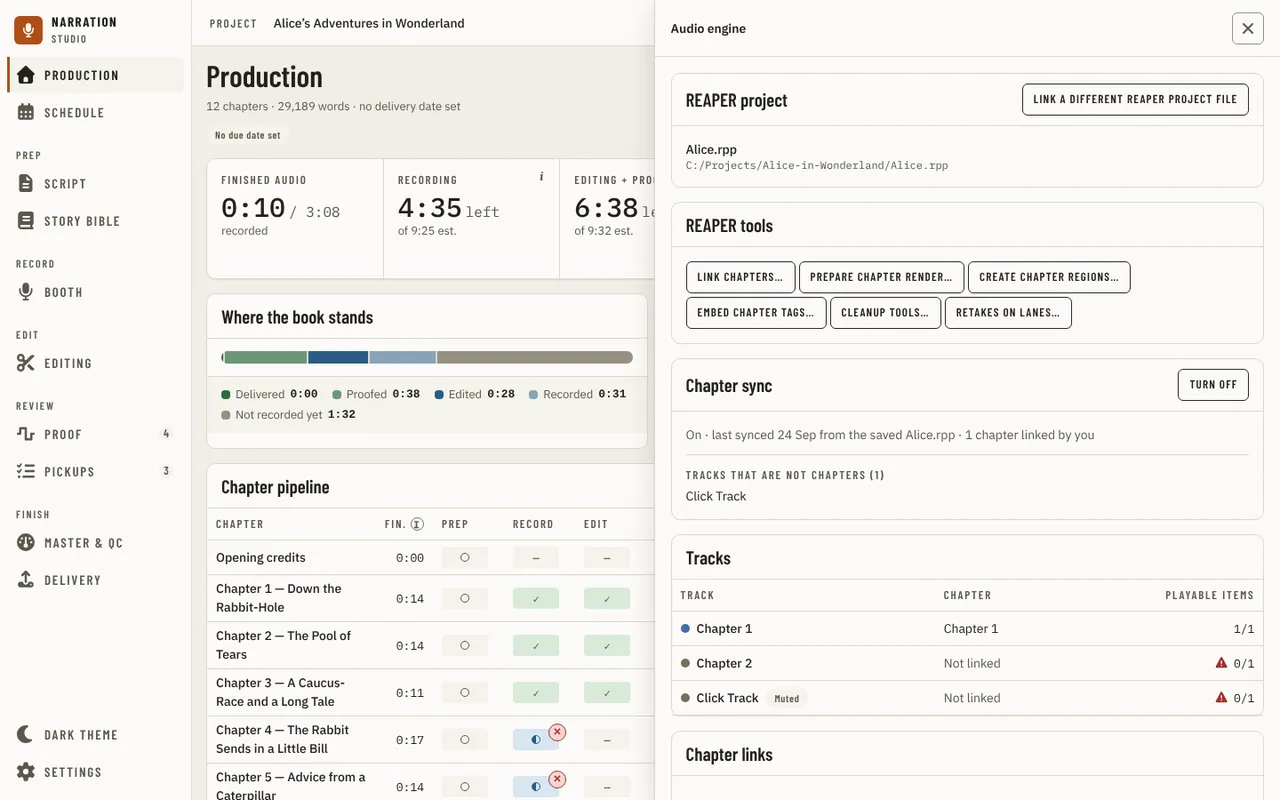
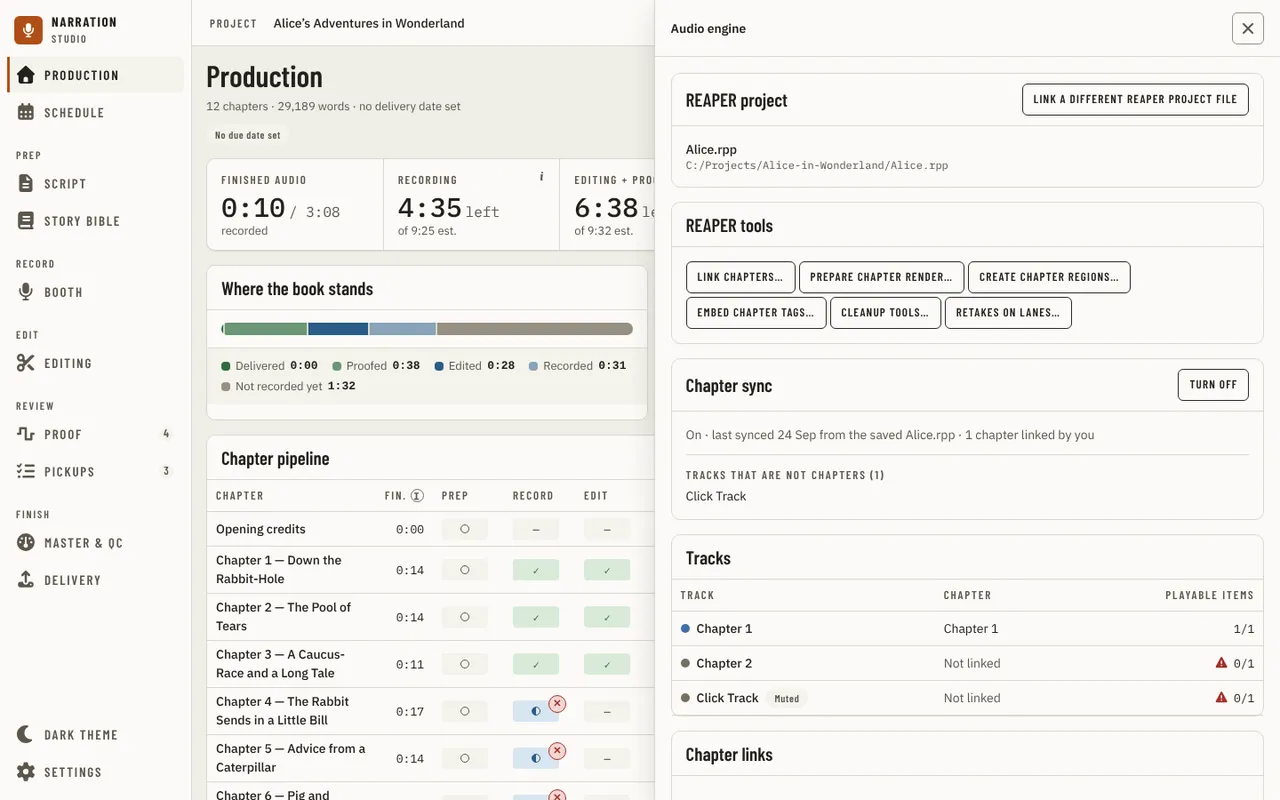
feat(ui): move the chapter sync activity log from the engine panel to settings
Sync activity is now an advanced Recording & DAW row (REAPER only), and
Tracks that are not chapters uses the full width of the Chapter sync panel.

Claude-Session: https://claude.ai/code/session_01VXV8RYs4TmyCTTo6amBq62

diff --git a/apps/ui/src/components/engine/ChapterSyncPanel.tsx b/apps/ui/src/components/engine/ChapterSyncPanel.tsx
@@ -9,19 +9,12 @@ import { Panel } from '../primitives/Panel';
 import { InsetCard } from '../primitives/InsetCard';
 import { SectionLabel } from '../primitives/SectionLabel';
 import { Select } from '../primitives/Select';
-import {
-  chapterSyncActivityRows,
-  chapterSyncBackgroundWaitText,
-  chapterSyncPanelNotChaptersText,
-  chapterSyncPanelReasonText,
-  chapterSyncSummaryText,
-  chapterSyncTimeLabel,
-} from './chapterSyncText';
+import { chapterSyncBackgroundWaitText, chapterSyncPanelNotChaptersText, chapterSyncPanelReasonText, chapterSyncSummaryText } from './chapterSyncText';
 
 /**
  * Chapter sync's own section of the engine panel the on/off state and last-sync summary, the Needs you list with an inline Link
- * (chapterTrackSet, the same binding as Chapter links below), the tracks sync could not place, and the Sync activity with Undo
- * on a link sync made. Nothing here shows before the consent dialog has been answered (`ask`) - that is the narrator's first
+ * (chapterTrackSet, the same binding as Chapter links below), and the tracks sync could not place. The Sync activity log is in
+ * Settings (Recording & DAW › Advanced). Nothing here shows before the consent dialog has been answered (`ask`) - that is the narrator's first
  * decision, not a second copy of it here.
  */
 export function ChapterSyncPanel({ notify, onChanged }: { notify: Notify; onChanged: () => void }) {
@@ -31,7 +24,6 @@ export function ChapterSyncPanel({ notify, onChanged }: { notify: Notify; onChan
   const [toggling, setToggling] = useState(false);
   const [picked, setPicked] = useState<Record<string, string>>({});
   const [linkingChapterId, setLinkingChapterId] = useState('');
-  const [undoingTrackGuid, setUndoingTrackGuid] = useState('');
 
   const loadPreview = useCallback(async () => {
     try {
@@ -88,27 +80,8 @@ export function ChapterSyncPanel({ notify, onChanged }: { notify: Notify; onChan
     }
   };
 
-  // Undo removes one automatic link and remembers the pair so sync never makes it again; the host answers with the
-  // state, and chaptersync:state follows, so the list redraws on its own.
-  const undo = async (trackGuid: string) => {
-    setUndoingTrackGuid(trackGuid);
-    try {
-      await api.chapterSyncUndo(trackGuid);
-      notify('Link undone. Sync will not make it again.');
-      onChanged();
-    } catch (error) {
-      notify(describeApiError(error), 'error');
-    } finally {
-      setUndoingTrackGuid('');
-    }
-  };
-
   const notChapters = preview ? chapterSyncPanelNotChaptersText(preview.unmatched, preview.pickupTracks) : '';
   const notChaptersCount = preview ? preview.unmatched.length + preview.pickupTracks.length : 0;
-  // A link line offers Undo only while the chapter still holds that automatic link: Undo on a link already changed or cleared
-  // would be refused by the host, so it is not offered.
-  const stillAuto = (trackGuid: string) => state.chapters.some((chapter) => chapter.trackGuid === trackGuid && chapter.origin === 'auto');
-  const activity = chapterSyncActivityRows(state.activity, (guid) => state.chapters.find((chapter) => chapter.trackGuid === guid)?.trackName ?? '');
 
   return (
     <Panel
@@ -164,45 +137,12 @@ export function ChapterSyncPanel({ notify, onChanged }: { notify: Notify; onChan
           })}
         </div>
       )}
-      {(notChapters || activity.length > 0) && (
-        <div className="mt-3 grid gap-4 border-t border-[var(--border)] pt-3 text-sm sm:grid-cols-2">
-          {notChapters && (
-            <div className="min-w-0">
-              <SectionLabel as="h3" className="mb-1">
-                Tracks that are not chapters ({notChaptersCount})
-              </SectionLabel>
-              <p className="[overflow-wrap:anywhere]">{notChapters}</p>
-            </div>
-          )}
-          {activity.length > 0 && (
-            <div className="min-w-0">
-              <SectionLabel as="h3" className="mb-1">
-                Sync activity
-              </SectionLabel>
-              <ul className="space-y-0.5" style={{ color: 'var(--text-muted)' }}>
-                {activity.map((row) => (
-                  <li key={row.key} className="[overflow-wrap:anywhere]">
-                    {chapterSyncTimeLabel(row.at)} · {row.text}
-                    {row.undoTrackGuid && stillAuto(row.undoTrackGuid) && (
-                      <>
-                        {' ('}
-                        <Button
-                          variant="link"
-                          style={{ color: 'var(--text)' }}
-                          disabled={undoingTrackGuid === row.undoTrackGuid}
-                          aria-label={`Undo: ${row.text}`}
-                          onClick={() => void undo(row.undoTrackGuid)}
-                        >
-                          Undo
-                        </Button>
-                        {')'}
-                      </>
-                    )}
-                  </li>
-                ))}
-              </ul>
-            </div>
-          )}
+      {notChapters && (
+        <div className="mt-3 min-w-0 border-t border-[var(--border)] pt-3 text-sm">
+          <SectionLabel as="h3" className="mb-1">
+            Tracks that are not chapters ({notChaptersCount})
+          </SectionLabel>
+          <p className="[overflow-wrap:anywhere]">{notChapters}</p>
         </div>
       )}
     </Panel>

diff --git a/apps/ui/src/components/engine/SyncActivityLog.tsx b/apps/ui/src/components/engine/SyncActivityLog.tsx
@@ -1,0 +1,61 @@
+import { useState } from 'react';
+import { describeApiError } from '../../api/errorMessage';
+import { useChapterSync } from '../../hooks/useChapterSync';
+import { usePort } from '../../ports/usePort';
+import { Button } from '../primitives/Button';
+import type { Notify } from '../primitives/Toast';
+import { chapterSyncActivityRows, chapterSyncTimeLabel } from './chapterSyncText';
+
+/**
+ * What each chapter sync did, newest first, with Undo on a link sync made that the chapter still holds. It lives in Settings
+ * (Recording & DAW › Advanced), not in the engine panel: it is a record to look back on, not something to act on while syncing.
+ */
+export function SyncActivityLog({ notify }: { notify: Notify }) {
+  const port = usePort('chapterSync');
+  const state = useChapterSync(port);
+  const [undoingTrackGuid, setUndoingTrackGuid] = useState('');
+
+  if (!state) return <p className="text-[0.8125rem] text-[var(--text-muted)]">Reading the sync activity…</p>;
+
+  const rows = chapterSyncActivityRows(state.activity, (guid) => state.chapters.find((chapter) => chapter.trackGuid === guid)?.trackName ?? '');
+  if (rows.length === 0) return <p className="text-[0.8125rem] text-[var(--text-muted)]">No sync has run in this project yet.</p>;
+
+  // Undo is offered only while the chapter still holds that automatic link: the host would refuse it on a link already changed or cleared.
+  const stillAuto = (trackGuid: string) => state.chapters.some((chapter) => chapter.trackGuid === trackGuid && chapter.origin === 'auto');
+  // Undo removes one automatic link and remembers the pair so sync never makes it again; chaptersync:state redraws the list.
+  const undo = async (trackGuid: string) => {
+    setUndoingTrackGuid(trackGuid);
+    try {
+      await port.chapterSyncUndo(trackGuid);
+      notify('Link undone. Sync will not make it again.');
+    } catch (error) {
+      notify(describeApiError(error), 'error');
+    } finally {
+      setUndoingTrackGuid('');
+    }
+  };
+
+  return (
+    <ul aria-label="Sync activity" className="w-full divide-y divide-[var(--border)] text-[0.8125rem]">
+      {rows.map((row) => (
+        <li key={row.key} className="grid grid-cols-[5.5rem_minmax(0,1fr)_auto] items-baseline gap-x-3 py-1.5">
+          <span className="text-[var(--text-muted)]">{chapterSyncTimeLabel(row.at)}</span>
+          <span className="[overflow-wrap:anywhere]">{row.text}</span>
+          {row.undoTrackGuid && stillAuto(row.undoTrackGuid) ? (
+            <Button
+              variant="link"
+              size="sm"
+              disabled={undoingTrackGuid === row.undoTrackGuid}
+              aria-label={`Undo: ${row.text}`}
+              onClick={() => void undo(row.undoTrackGuid)}
+            >
+              Undo
+            </Button>
+          ) : (
+            <span aria-hidden="true" />
+          )}
+        </li>
+      ))}
+    </ul>
+  );
+}

diff --git a/apps/ui/src/components/engine/SyncActivityLog.test.tsx b/apps/ui/src/components/engine/SyncActivityLog.test.tsx
@@ -1,0 +1,58 @@
+// @vitest-environment jsdom
+import { cleanup, fireEvent, render, screen, waitFor, within } from '@testing-library/react';
+import { afterEach, describe, expect, it, vi } from 'vitest';
+import { ApiProvider } from '../../api/ApiContext';
+import { createMockApi } from '../../api/mockApi';
+import { WIRE_TRACKS_PROJECT } from '../../api/mockFixtures';
+import { SyncActivityLog } from './SyncActivityLog';
+
+afterEach(cleanup);
+
+describe('SyncActivityLog', () => {
+  it('lists the Sync activity, newest first, with Undo on a link sync made that still stands', async () => {
+    const api = createMockApi({}, { chapterSync: 'activity' });
+    const undo = vi.spyOn(api, 'chapterSyncUndo');
+    const notify = vi.fn();
+    render(
+      <ApiProvider api={api}>
+        <SyncActivityLog notify={notify} />
+      </ApiProvider>,
+    );
+    const lines = within(await screen.findByRole('list', { name: 'Sync activity' }))
+      .getAllByRole('listitem')
+      .map((item) => item.textContent);
+    expect(lines).toHaveLength(3);
+    expect(lines[0]).toMatch(/Linked “Chapter 1” to .+Undo$/);
+    expect(lines[1]).toMatch(/New track “Room tone”, not a chapter$/);
+    expect(lines[2]).toMatch(/First sync: 1 chapter linked$/);
+    fireEvent.click(screen.getByRole('button', { name: /^Undo: Linked “Chapter 1”/ }));
+    await waitFor(() => expect(undo).toHaveBeenCalledWith(WIRE_TRACKS_PROJECT.tracks[0].guid));
+    await waitFor(() => expect(notify).toHaveBeenCalledWith('Link undone. Sync will not make it again.'));
+    // The link is gone, so its line no longer offers Undo.
+    await waitFor(() => expect(screen.queryByRole('button', { name: /^Undo:/ })).toBeNull());
+  });
+
+  it('says so when no sync has run', async () => {
+    const base = await createMockApi({}, {}).chapterSyncState();
+    const api = createMockApi({ chapterSyncState: async () => ({ ...base, activity: [] }) }, {});
+    render(
+      <ApiProvider api={api}>
+        <SyncActivityLog notify={() => {}} />
+      </ApiProvider>,
+    );
+    await screen.findByText('No sync has run in this project yet.');
+    expect(screen.queryByRole('list', { name: 'Sync activity' })).toBeNull();
+  });
+
+  it('reports a failed Undo as an error toast', async () => {
+    const api = createMockApi({ chapterSyncUndo: async () => Promise.reject(new Error('host said no')) }, { chapterSync: 'activity' });
+    const notify = vi.fn();
+    render(
+      <ApiProvider api={api}>
+        <SyncActivityLog notify={notify} />
+      </ApiProvider>,
+    );
+    fireEvent.click(await screen.findByRole('button', { name: /^Undo:/ }));
+    await waitFor(() => expect(notify).toHaveBeenCalledWith(expect.stringContaining('host said no'), 'error'));
+  });
+});

diff --git a/apps/ui/src/interactionFeedback/engine.ts b/apps/ui/src/interactionFeedback/engine.ts
@@ -14,7 +14,7 @@ export const engineFeedback: Record<string, FeedbackRow> = {
   'src/components/engine/ChapterLinksTable.tsx::chapterTrackUnlink#1': row('click', 'file-io', 'pending', 'pending', 'ui', 'inline', 'no', 'ok', 'Clear on a chapter\'s MappingConfirm; the row is busy until every link the chapter holds is removed and re-listed.'),
   'src/components/engine/ChapterSyncPanel.tsx::chapterSyncPreview#1': row('effect', 'file-io', 'na', 'na', 'ui', 'toast', 'na', 'ok', 'Fills the Needs-you and not-chapters lists, read again on mount and after each sync; a failed read is a toast and the panel keeps its last list.'),
   'src/components/engine/ChapterSyncPanel.tsx::chapterSyncSetEnabled#1': row('click', 'file-io', 'pending', 'pending', 'ui', 'toast', 'na', 'ok', 'Turn on / Turn off on the panel; the button is busy until the state (and, turning on, the first sync) comes back, and a failure is a toast that leaves the switch as it was.'),
-  'src/components/engine/ChapterSyncPanel.tsx::chapterSyncUndo#1': row('click', 'file-io', 'disabled', 'disabled', 'toast', 'toast', 'no', 'ok', 'Undo on a Sync activity line; the word is disabled until the host answers, "Link undone. Sync will not make it again." confirms it, a failure is a toast, and chaptersync:state redraws the list without the Undo.'),
+  'src/components/engine/SyncActivityLog.tsx::chapterSyncUndo#1': row('click', 'file-io', 'disabled', 'disabled', 'toast', 'toast', 'no', 'ok', 'Undo on a Sync activity line; the word is disabled until the host answers, "Link undone. Sync will not make it again." confirms it, a failure is a toast, and chaptersync:state redraws the list without the Undo.'),
   'src/components/engine/ChapterSyncPanel.tsx::chapterTrackSet#1': row('click', 'file-io', 'pending', 'pending', 'toast', 'toast', 'no', 'ok', 'Link on a Needs-you row, the same binding as Chapter links below; the row\'s Link button is busy until it returns, "Track linked." confirms it, and the list is read again.'),
   'src/components/engine/EnginePanel.tsx::manuscriptChapters#1': row('mount', 'file-io', 'na', 'na', 'ui', 'silent', 'na', 'exempt', 'Only decides whether the "Link chapters…" button shows; without it the button is absent, same as a project with no chapters.'),
   'src/components/engine/LinkChaptersDialog.tsx::lineIdentityState#1': row('mount', 'instant', 'na', 'na', 'ui', 'silent', 'na', 'exempt', 'Hydrates whatever stamp or read was already in flight when the dialog reopened; the live event follows anyway.'),

diff --git a/apps/ui/src/components/engine/ChapterSyncPanel.test.tsx b/apps/ui/src/components/engine/ChapterSyncPanel.test.tsx
@@ -4,7 +4,6 @@ import { afterEach, describe, expect, it, vi } from 'vitest';
 import type { ChapterSyncPreview } from '../../api/contracts/chapterSync';
 import { ApiProvider } from '../../api/ApiContext';
 import { createMockApi } from '../../api/mockApi';
-import { WIRE_TRACKS_PROJECT } from '../../api/mockFixtures';
 import { ChapterSyncPanel } from './ChapterSyncPanel';
 
 afterEach(cleanup);
@@ -87,24 +86,11 @@ describe('ChapterSyncPanel', () => {
     await screen.findByText(/^On · last synced .+ from the saved Alice\.rpp · 1 chapter linked automatically, 1 by you$/);
   });
 
-  it('lists the Sync activity, newest first, with Undo on a link sync made that still stands', async () => {
-    const api = createMockApi({}, { chapterSync: 'activity' });
-    const undo = vi.spyOn(api, 'chapterSyncUndo');
-    const notify = vi.fn();
-    const onChanged = vi.fn();
-    render(<ApiProvider api={api}>{<ChapterSyncPanel notify={notify} onChanged={onChanged} />}</ApiProvider>);
-    const heading = await screen.findByRole('heading', { name: 'Sync activity' });
-    const lines = Array.from(heading.parentElement!.querySelectorAll('li')).map((item) => item.textContent);
-    expect(lines).toHaveLength(3);
-    expect(lines[0]).toMatch(/ · Linked “Chapter 1” to .+ \(Undo\)$/);
-    expect(lines[1]).toMatch(/ · New track “Room tone”, not a chapter$/);
-    expect(lines[2]).toMatch(/ · First sync: 1 chapter linked$/);
-    fireEvent.click(screen.getByRole('button', { name: /^Undo: Linked “Chapter 1”/ }));
-    await waitFor(() => expect(undo).toHaveBeenCalledWith(WIRE_TRACKS_PROJECT.tracks[0].guid));
-    await waitFor(() => expect(notify).toHaveBeenCalledWith('Link undone. Sync will not make it again.'));
-    expect(onChanged).toHaveBeenCalled();
-    // The link is gone, so its line no longer offers Undo.
-    await waitFor(() => expect(screen.queryByRole('button', { name: /^Undo:/ })).toBeNull());
+  it('does not list the Sync activity: that log is in Settings', async () => {
+    render(<ApiProvider api={createMockApi({}, { chapterSync: 'activity' })}>{<ChapterSyncPanel notify={() => {}} onChanged={() => {}} />}</ApiProvider>);
+    await screen.findByText(/On · last synced/);
+    expect(screen.queryByText('Sync activity')).toBeNull();
+    expect(screen.queryByRole('button', { name: /^Undo:/ })).toBeNull();
   });
 
   it('counts the tracks that are not chapters and says when REAPER holds unsaved changes', async () => {

diff --git a/apps/ui/tests/visual/catalog/engine.ts b/apps/ui/tests/visual/catalog/engine.ts
@@ -12,13 +12,7 @@ export const engineStates: StateEntry[] = [
     page: 'engine',
     state: 'default',
     description:
-      'The engine panel opened from the header chip over the Production home: the linked Alice.rpp and "Link a different REAPER project file", the six REAPER tools, Chapter sync, the track list with each track\'s chapter and its unplayable items flagged, and Chapter links',
-  },
-  {
-    page: 'engine',
-    state: 'sync-activity',
-    description:
-      'The engine panel, Chapter sync (?mockChapterSync=activity): "On · last synced … from the saved Alice.rpp · 1 chapter linked automatically, 1 by you" and the Sync activity list, newest first, with Undo on the link sync made',
+      'The engine panel opened from the header chip over the Production home: the linked Alice.rpp and "Link a different REAPER project file", the six REAPER tools, Chapter sync (its "Tracks that are not chapters" line across the full width), the track list with each track\'s chapter and its unplayable items flagged, and Chapter links',
   },
   {
     page: 'engine',

diff --git a/apps/ui/src/components/engine/EnginePanel.tsx b/apps/ui/src/components/engine/EnginePanel.tsx
@@ -48,7 +48,7 @@ export type EngineLinkState = {
 /**
  * The engine panel, opened from the header's engine
  * chip on any page. It holds what the Tracks page held that is about REAPER rather than a stage: the linked `.rpp` (link,
- * relink, or choose between several), the REAPER tools, chapter sync with its Sync activity, and the track list with each track's chapter and the Chapter links table. The Tracks page's player
+ * relink, or choose between several), the REAPER tools, chapter sync, and the track list with each track's chapter and the Chapter links table. The Tracks page's player
  * is gone: a chapter is heard in its Proof chapter view. Everything loads when the panel opens (a closed SlideOver is not
  * mounted), so the panel costs nothing on a page that never opens it.
  */

diff --git a/apps/ui/src/components/settings/controls/recordingControls.tsx b/apps/ui/src/components/settings/controls/recordingControls.tsx
@@ -6,6 +6,7 @@ import { EngineBody } from './EngineBody';
 import { MicBody } from './MicBody';
 import { SampleOutputBody } from './SampleOutputBody';
 import { MwKeyBody } from './MwKeyBody';
+import { SyncActivityBody } from './SyncActivityBody';
 import { TakeToneRowBody } from './TakeToneBody';
 
 /** Bodies for Recording & DAW, Voice & pronunciation and Delivery rows, by registry row id. */
@@ -15,6 +16,7 @@ export const RECORDING_CONTROLS: Record<string, ComponentType> = {
   'daw.sampleOutput': SampleOutputBody,
   'daw.startTone': TakeToneRowBody,
   'daw.capabilities': CapabilitiesBody,
+  'daw.syncActivity': SyncActivityBody,
   'voice.dict': DefinitionsBody,
   'voice.mwKey': MwKeyBody,
   'delivery.profile': DeliveryProfileBody,

diff --git a/apps/ui/src/components/settings/registry/rows.test.ts b/apps/ui/src/components/settings/registry/rows.test.ts
@@ -42,6 +42,14 @@ describe('the settings registry', () => {
   });
 });
 
+describe('the Sync activity row', () => {
+  it('is an advanced Recording & DAW row for REAPER, found by search', () => {
+    const row = ROWS.find((candidate) => candidate.id === 'daw.syncActivity');
+    expect(row).toMatchObject({ cat: 'recording', section: 'Chapter sync', advanced: true, needs: 'reaper' });
+    expect(search('chapter sync log').some((hit) => hit.row?.id === 'daw.syncActivity')).toBe(true);
+  });
+});
+
 describe('search', () => {
   it('finds a setting by a word that is not in its name', () => {
     expect(search('whisper').some((hit) => hit.row?.id === 'stt.model')).toBe(true);

diff --git a/apps/ui/tests/visual/drivers/settings.ts b/apps/ui/tests/visual/drivers/settings.ts
@@ -149,6 +149,12 @@ export const settingsDrivers: Record<string, Driver> = {
     await page.getByRole('table', { name: 'What the recording tool can do' }).waitFor();
     await page.getByLabel('REAPER program', { exact: true }).waitFor();
   },
+  'recording-sync-activity': async (page) => {
+    await openSettings(page, 'Recording & DAW', '?mockChapterSync=activity');
+    await openAdvanced(page);
+    const row = await showSettingsRow(page, 'daw.syncActivity');
+    await row.getByRole('button', { name: /^Undo: Linked/ }).waitFor();
+  },
   'recording-reaper-path-invalid': async (page) => {
     await openSettings(page, 'Recording & DAW');
     await openAdvanced(page);

diff --git a/apps/ui/tests/visual/catalog/settings.ts b/apps/ui/tests/visual/catalog/settings.ts
@@ -85,6 +85,14 @@ export const settingsStates: StateEntry[] = [
   },
   {
     page: 'settings',
+    state: 'recording-sync-activity',
+    description:
+      'Settings, Recording & DAW with Advanced open (?mockChapterSync=activity): the Sync activity row under Chapter sync, newest first, with Undo on the link sync made',
+    ...REFLOW,
+    ...KEEPS_DESKTOP_SCROLL,
+  },
+  {
+    page: 'settings',
     state: 'recording-reaper-path-invalid',
     description:
       'Settings, Recording & DAW, Advanced: a REAPER program path that does not end in reaper.exe is refused in the row with "This is not the path to reaper.exe..." and the old value stays',

diff --git a/apps/ui/src/components/settings/registry/rows.ts b/apps/ui/src/components/settings/registry/rows.ts
@@ -136,6 +136,19 @@ export const ROWS: readonly SettingMeta[] = [
     advanced: true,
     syn: 'record punch markers regions fx chains',
   },
+  {
+    id: 'daw.syncActivity',
+    cat: 'recording',
+    section: 'Chapter sync',
+    label: 'Sync activity',
+    scope: 'project',
+    def: '',
+    desc: 'What each chapter sync did, newest first. Undo removes a link sync made, and sync never makes it again.',
+    used: ['production'],
+    needs: 'reaper',
+    advanced: true,
+    syn: 'chapter sync log history undo link diagnostics track',
+  },
 
   // ---- Speech to text
   {
